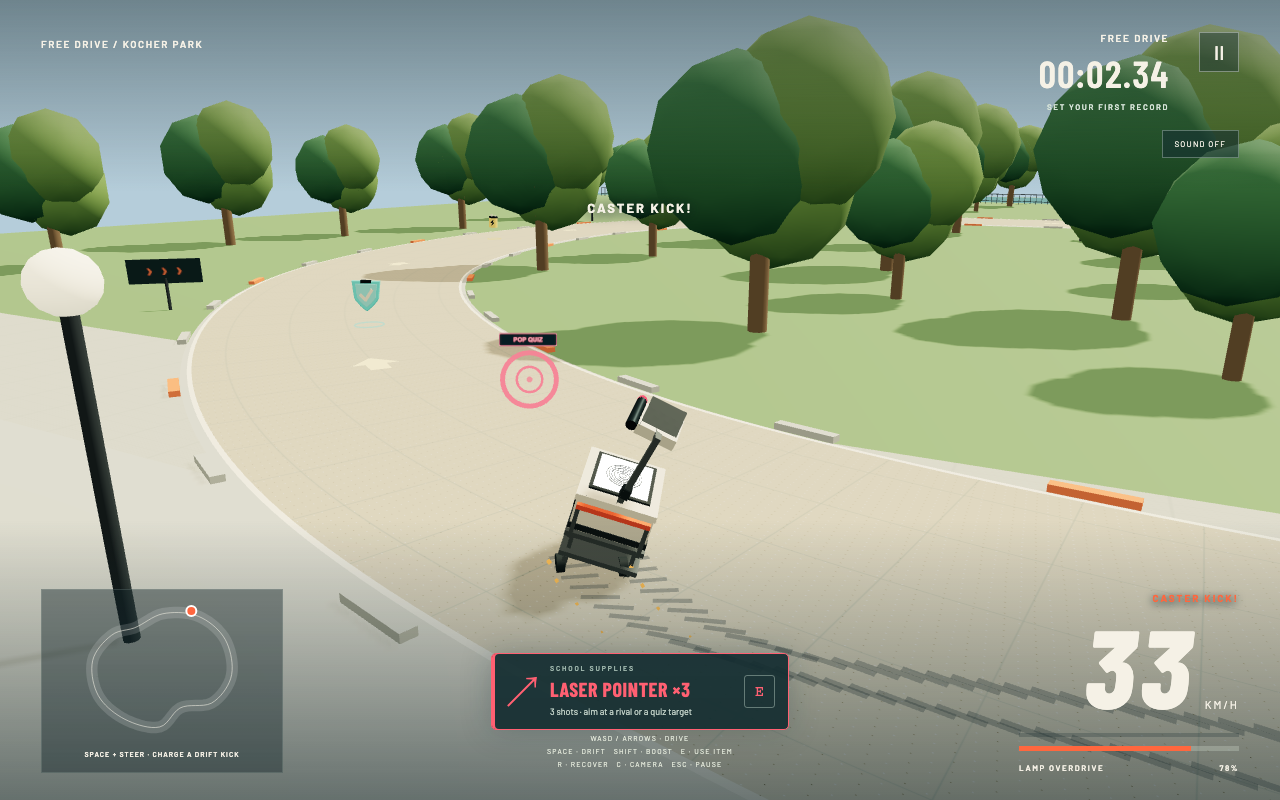
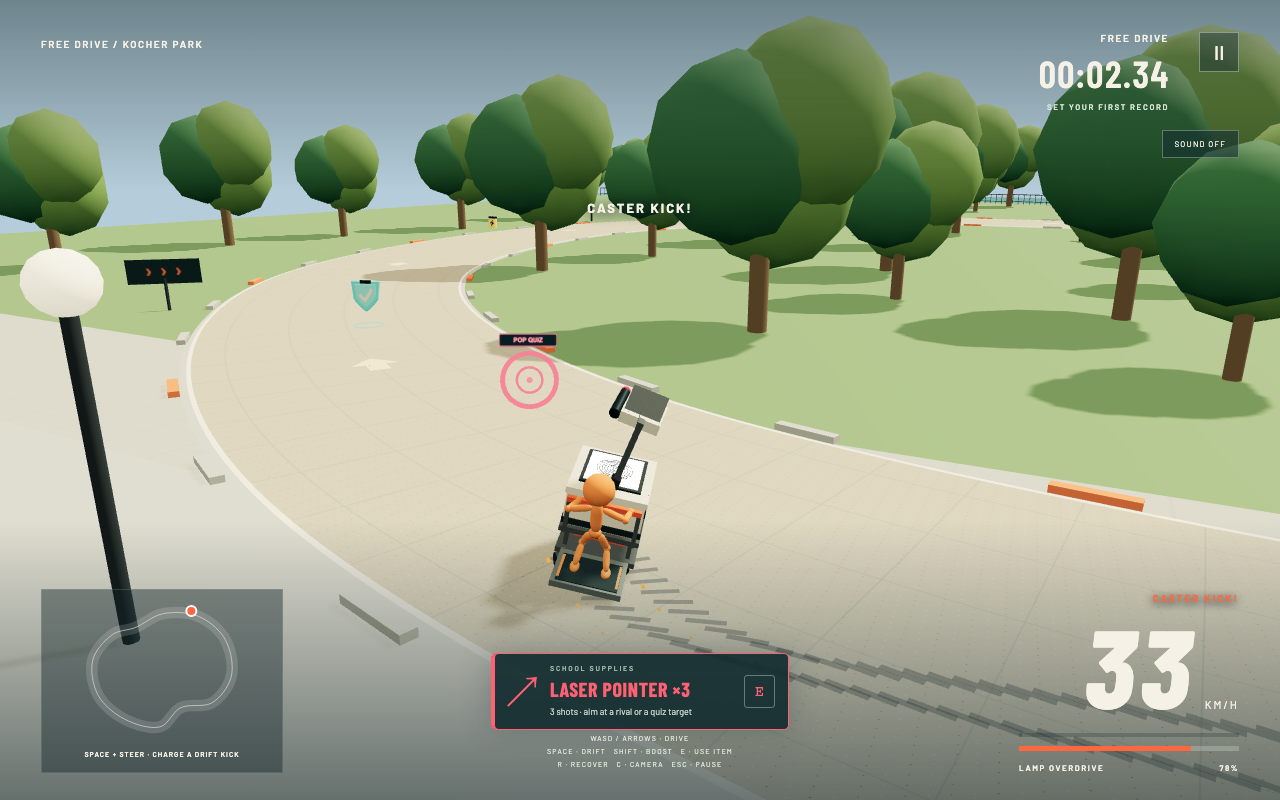
docs: document online play, security boundaries, and release previews

diff --git a/README.md b/README.md
@@ -22,11 +22,51 @@ npm run build
 npm run preview
 ```
 
+## Deploy to Vercel
+
+Live game: [overhead-overdrive.vercel.app](https://overhead-overdrive.vercel.app).
+
+See [SECURITY.md](SECURITY.md) for response headers, security checks and server-side validation of online competition.
+
+The project uses Vercel's Vite preset, `npm run build`, and the `dist` output directory (configured in `vercel.json`). Offline racing needs no backend. Before deploying online competition, configure the database and server secrets described below.
+
+```sh
+npx vercel@latest login
+npx vercel@latest link --project overhead-overdrive --scope niklas-heers-projects
+npx vercel@latest deploy --prod
+```
+
+Omit `--prod` for a preview deployment. CLI deployments include the current local source, including uncommitted changes. The linked GitHub repository also deploys pushed changes; commit local work before relying on Git deployments. Local Vercel credentials and project metadata are gitignored. Reference documents and ready-exported GLB files are excluded from deployment; the game generates its downloadable school models in the browser.
+
 ## What is playable
+
+- **The Club → School Records:** three-lap solo time trials, weekly and all-time top-50 boards for each course/setup, server replay verification and shareable translucent ghosts. These records are separate from offline best times. Pure time-trial rules include boost and drift kicks; rivals, items and mischief lanes are reserved for ordinary races.
+- **The Club → Private Friend Rooms:** up to four players, invitation links, bots in spare slots, a shared countdown, server-controlled movement and items, and host rematches. A local pause opens the menu while the online race continues. The first release uses bounded HTTP room updates and client prediction; lag and reconnects can cause visible corrections.
+
+### Running the online features locally
+
+Run `npm run dev:online` in a second terminal alongside `npm run dev`. Vite proxies `/api/online` to the local API on port 5174. This development server uses temporary in-memory records and rooms, which disappear when restarted. It never substitutes memory storage in production.
+
+For production, connect an **Upstash Redis Free** database to the Vercel project (region `fra1`, `autoUpgrade=false`, `prodPack=false`, eviction disabled). Marketplace terms require the account owner's acceptance. The server accepts `UPSTASH_REDIS_REST_URL` / `UPSTASH_REDIS_REST_TOKEN`, or the integration's `KV_REST_API_URL` / `KV_REST_API_TOKEN` names. Add `ONLINE_SESSION_SECRET` as a Vercel Secret with at least 32 random bytes. The canonical origin defaults to `https://overhead-overdrive.vercel.app`; set `ONLINE_ORIGIN` when using another production domain. These are server variables, never `VITE_*` variables.
+
+The free launch limits are four simultaneous rooms, ten-minute room lifetime, three-minute races, and 30,000 uncached online API requests per UTC calendar month. Provider quotas also apply; this is a small friends-and-family release, not a promise of unlimited free multiplayer. If online service is unavailable, offline play remains available. Database auto-upgrade must stay disabled to preserve the free-plan constraint.
+
+```sh
+npm test
+npm run build
+GAME_URL=http://localhost:5173 node scripts/online-live-smoke.mjs
+```
+
+The live smoke uses two independent browser sessions and the actual API, then drives a full time trial using public keyboard controls. It writes an ordinary visible QA record; run it against local development unless a production QA entry is intended. Baked collision geometry in `src/online-course-data.json` is generated by `node scripts/export-online-courses.ts`; regenerate it and bump `ONLINE_VERSION` when track or physics rules change.
+
+### Offline racing and school model
 
 - Three circuits: **Atrium Circuit** (192 m), **Canopy Run** (255 m), and **Kocher Park** (316 m).
 - Three-lap races against three opponents using the same vehicle dynamics as the player: The Prefect takes precise lines, Turbo Tutor boosts and overtakes, and Loose Caster makes brief drifting turns.
 - Sequential checkpoints, exact finish-line crossing, finishing-order tracking, race timer, and local personal bests per track and setup.
+- Four selectable colored 3D stick-figure riders: **The Doodler**, **Lab Partner**, **Lunch Break**, and **Night Shift**. Choose in **The Garage**; the **Classic** toggle restores the rider-free projector. Crew selection is remembered locally.
+- Riders stand on rear footboards, grip the trolley handle, lean into corners, crouch under boost, react to laser hits and wave at the finish. Hands and feet remain attached through animation. Round heads, slim capsule limbs and simple faces keep the driving view clear.
+- Brief comic asides react to driving, with at most two bubbles and a ten-second per-rider cooldown.
 - Three handling setups: balanced Original, grippy Hall Monitor, and powerful Loose Cannon; five paint colors.
 - Caster drifting with a charge-and-release speed kick: blue sparks build to gold, then release Space while accelerating to launch. Contact cancels charge, and manual boost shares an acceleration ceiling.
 - Expressive lens heads look into corners, recoil under boost and droop when tagged. Casters swivel and chatter; body lean stays separate from the grounded wheels.
@@ -62,6 +102,8 @@ Lift or brake before tight turns; short handbrake taps help rotate the trolley. 
 
 For a caster kick, enter a corner with speed, keep accelerating and hold Space while steering. The drift bar turns gold when ready; release Space to spend the charge. A wall/rival collision, reverse driving or a broken slide cancels it. Gold road chevrons mark optional school-mischief lanes; take them in the forward direction at speed for a burst and 12% lamp recharge.
 
+Rider selection changes appearance and animation; handling, collision shapes and personal records are shared with Classic mode. The human is not a separately simulated ragdoll.
+
 ## The three places
 
 **Atrium Circuit** is the indoor school hall: white brick, graphite tiles, yellow stairs, glass roof and galleries. **Canopy Run** threads an asymmetric route between separate school wings, a red-column covered passage, courtyards and curved bicycle shelters. **Kocher Park** leaves the forecourt for a wooded pond loop and the riverbank. Each has different geometry, scenery, turn rhythm and lap length. The source photographs and maps informed the architecture and setting; the route connections and dimensions remain adapted for racing.
@@ -83,7 +125,7 @@ This is an arcade vehicle model with physically motivated behavior. Wheels do no
 ## Checks
 
 ```sh
-npm test                 # 42 physics, items, rivals, animation and mischief tests
+npm test                 # 56 physics, items, rivals, rider, animation and mischief tests
 npm run test:ai          # 9 full AI race simulations against actual world colliders
 AI_PACK=1 npm run test:ai # also validate 9 three-rival pack completions
 npm run build            # strict TypeScript + production bundle
@@ -98,6 +140,7 @@ node scripts/steering-smoke.mjs # driver-relative A/D and arrow-key regression
 node scripts/race-smoke.mjs    # keyboard-driven race with item use, finish + saved record
 node scripts/items-smoke.mjs   # real pickup, laser, item UI, sound, pause/restart
 node scripts/drift-smoke.mjs   # real keyboard drift charge/release, pulse and HUD
+node scripts/rider-smoke.mjs   # crew selection, classic mode, repaint, persistence and mobile
 node scripts/audio-check.mjs   # render and validate the actual audio graph
 node scripts/export-models.mjs # regenerate and validate the three GLB exports
 ```
@@ -114,6 +157,8 @@ Browser scripts default to port 5173. `GAME_URL` overrides the URL for all brows
 - `src/world.ts`: circuits, original school geometry/materials and projector model.
 - `src/effects.ts`: bounded, instanced caster skid trails and drift sparks.
 - `src/personality.ts`: cosmetic head, body and caster animation.
+- `src/rider.ts`: original colored stick figures, attached footboards and articulated pose solving.
+- `src/rider-feedback.ts`: bounded comic asides and tested reaction cooldowns.
 - `src/mischief.ts`: track-specific reward lanes, pooled paper/leaf effects and yielding caretaker.
 - `src/style.css`: responsive visual design.
 - `docs/school-reference.md`: inspected photographs, supplied maps and reconstruction scope.

diff --git a/SECURITY.md b/SECURITY.md
@@ -1,0 +1,43 @@
+# Security boundaries
+
+## Application architecture
+
+The game serves a static Vite frontend and one Vercel Function at `/api/online`. The online API uses a dedicated Upstash Redis database; offline best times and rider preferences stay in browser storage. Offline records are never promoted to the public leaderboard. Players can modify their own browser simulation; browser hardening does not prevent that.
+
+Production response headers in `vercel.json` restrict JavaScript to this origin, block inline scripts and eval, disallow framing, forms, plugins and workers, restrict outgoing connections, disable unused device permissions, and prevent MIME sniffing. Google Fonts is explicitly allowed. Inline CSS is required for procedural HUD styles; this exception does not permit inline JavaScript. Blob/data resources are allowed for generated textures and GLB exports.
+
+Only built frontend assets and the API endpoint are served. Environment files and Git internals are excluded from uploads, and `.env*` and `.vercel/` are ignored by Git. Never place credentials in `public/` or `VITE_*` variables, which become public browser assets. Player-supplied nicknames use `textContent`, not template interpolation into HTML.
+
+Vercel system DDoS mitigations are active. The project firewall has a published `Game request flood guard` rule: all paths, 2,000 requests per IP per fixed 60-second window, returning a rate-limit response above the limit. This generous threshold accommodates shared school networks; it is not protection against a distributed attack by itself. The rule is stored in Vercel, separately from `vercel.json`. Review it when API endpoints are added: those need much tighter per-session limits and bounded concurrent work. Attack Mode is left off during normal play so visitors do not receive a challenge page on every visit.
+
+Inspect the live firewall with `npx vercel@latest firewall overview --scope niklas-heers-projects`. No paid security service was enabled.
+
+Verification:
+
+```sh
+npm audit
+npm test
+npm run build
+GAME_URL=https://overhead-overdrive.vercel.app npm run test:security
+GAME_URL=https://overhead-overdrive.vercel.app npm run test:browser
+```
+
+The security smoke test checks actual response headers, private-file 404s, malformed local preferences, normal model export, and browser enforcement against harmless injected-script and off-origin request probes. It is a regression check, not a penetration-test certification. Repeat dependency audits when changing dependencies and before releases.
+
+## Online controls and limits
+
+- Anonymous identities use HMAC-signed, 30-day HttpOnly/Secure/SameSite=Strict cookies. Mutations require an exact approved Origin and a session-bound CSRF token. The API never accepts a client-supplied player identity. Clearing cookies loses this anonymous identity; nicknames are public display names, not unique verified accounts.
+- Nicknames are restricted to 2–20 letters/numbers/spaces/dots/dashes/underscores. JSON bodies are limited to 256KiB with depth/type/prototype-key checks. Unexpected actions, invalid masks, invalid track/setup IDs and unauthorized room actions are rejected.
+- The server creates a single-use ten-minute race pass tied to player, course, setup and physics version. Submitted RLE controls contain at most 21,600 fixed 120Hz ticks. The server re-simulates from its own starting grid, requires three sequential laps and calculates penalties and finish time. Two global leased verification slots bound concurrent replay work. A player-bound ten-minute receipt lets the client recover a successful save after a lost response without adding another record. No client-reported time, position or hit is trusted. This verifies a physically valid run, not that a human rather than a bot drove it.
+- Multiplayer uses short HTTP updates with client prediction, not WebSocket connections. Redis leases serialize room changes; input sequence numbers reject stale controls, and only elapsed server time advances the race. Input stops after one second without updates. Races end after three minutes or a catch-up gap above five seconds; rooms expire after ten minutes. Membership is checked on every update; only the host can start/rematch. Invitation codes contain 96 random bits and authorize joining an unstarted room, not controlling another player.
+- The dedicated database credentials and signing secret stay server-side. The client receives only public board/ghost data and its current room snapshot. Room snapshots contain no credentials or session tokens. There is no arbitrary file/model upload: ghosts contain only server-generated numeric positions at 10Hz.
+- Boards retain the top 50 personal bests per track/setup for the current UTC week and all time. Displaced ghost records are removed; boards and ghost data have one-year TTLs. Public board/ghost reads have a bounded 15-second instance cache. Failed storage operations fail closed rather than silently using in-memory production data.
+- The launch budget allows four active rooms and 30,000 uncached online API calls per UTC calendar month. Per-session limits are 600 sync requests/minute, 30 other mutations/minute and ten replay submissions/hour. New sessions are limited to 20/hour/IP; uncached public reads to 240/minute/IP. This is a request guard, not a guarantee against distributed quota exhaustion: Redis commands, rejected traffic and platform overhead have separate quotas. Database auto-upgrades must be disabled; exhausting the free allowance disables online operations while offline racing remains available.
+
+Local testing uses an explicitly separate in-memory development server. Production cannot enable that fallback. Tests cover session tampering, origin/CSRF, body limits, concurrent room membership, replay ownership/consumption, forged scores, lease expiration and capacity/quota failure. Keep these gates when adding accounts, chat, public matchmaking or a different transport.
+
+## Hosting constraints
+
+As checked on 2026-09-05, Vercel Hobby is restricted to personal, non-commercial projects. It includes 4 active CPU hours and 360 GB-hours of function memory; functions have a five-minute maximum duration. WebSockets are beta, terminate at the function duration limit and require external durable room state across instances. Database/ghost storage has separate provider quotas. These limits do not guarantee a particular player capacity; measure the actual simulation and verification workload before making capacity claims.
+
+Sources: [Hobby limits](https://vercel.com/docs/plans/hobby), [WebSockets](https://vercel.com/docs/functions/websockets), [WAF rate limits](https://vercel.com/docs/vercel-firewall/vercel-waf/rate-limiting).
